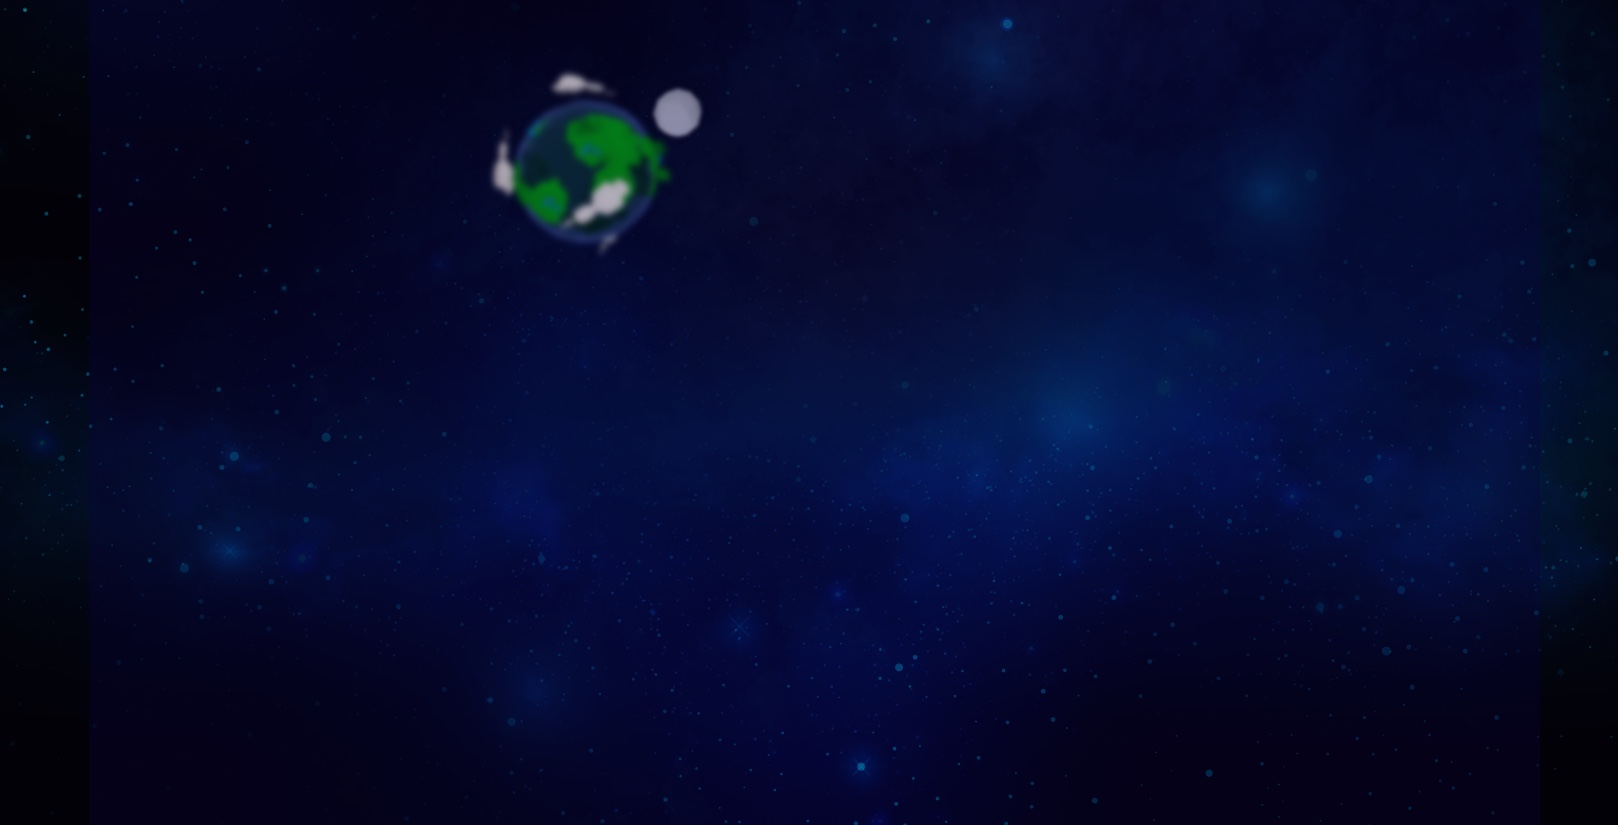
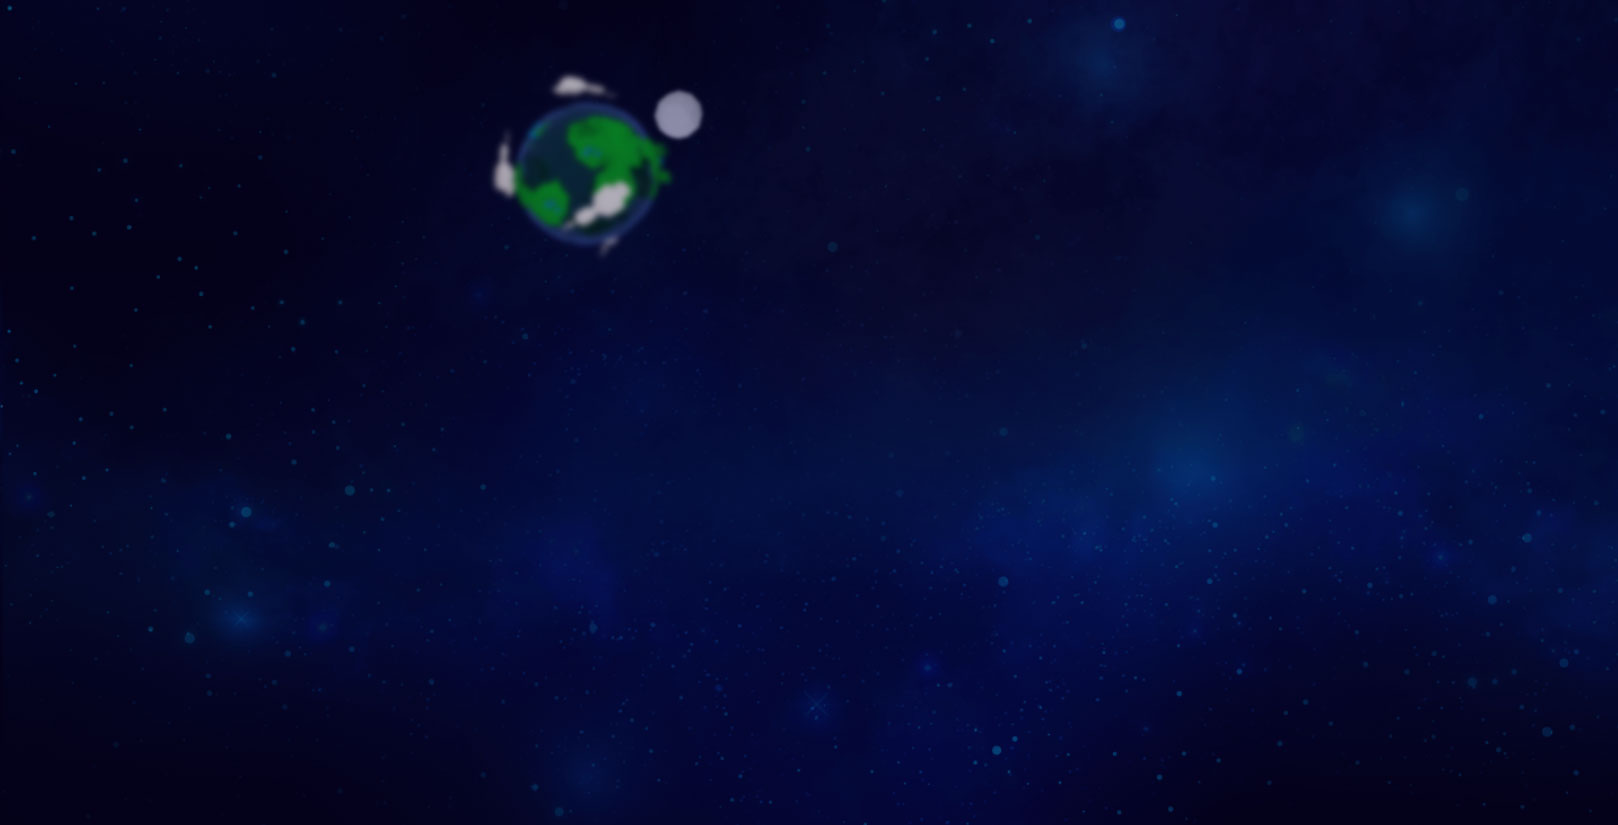
planet positioning

diff --git a/built/assets/styles/main.css b/built/assets/styles/main.css
@@ -775,7 +775,7 @@ input[type="search"] {
   background: #eff4f5;
 }
 .section.-world {
-  background: url("../images/content/universe3.jpg");
+  background: url("../images/content/universbg.jpg");
   padding: 300px 0 170px;
   background-size: cover;
   background-position: center center;
@@ -795,7 +795,11 @@ input[type="search"] {
   float: right;
 }
 .section.-world .world--description .world--planet {
-  display: none;
+  display: block;
+  position: absolute;
+  width: 600px;
+  top: -230px;
+  left: -25px;
 }
 .section.-world .world--description p {
   font-size: 20px;
@@ -969,6 +973,13 @@ input[type="search"] {
     font-size: 18px;
     line-height: 26px;
   }
+  .section.-world .world--description .world--planet {
+    display: block;
+    position: absolute;
+    width: 500px;
+    top: -190px;
+    left: 60px;
+  }
 }
 @media (max-width: 1140px) {
   .section.-satellite .base_col--large {
@@ -1079,6 +1090,7 @@ input[type="search"] {
     display: block;
     width: 286px;
     margin: 0 auto -60px;
+    position: static;
   }
 }
 @-moz-keyframes satellite {
